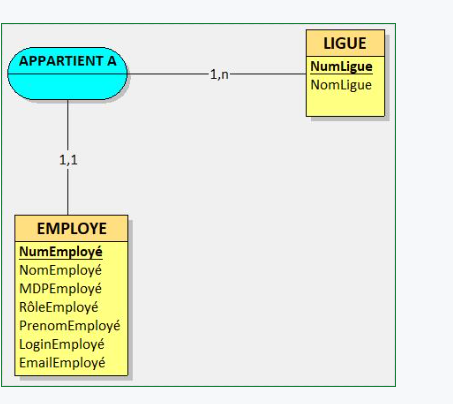
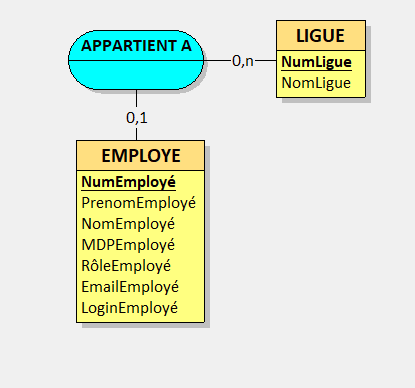
nouveau mcd app

diff --git a/Personnel/src/personnel/Employe.java b/Personnel/src/personnel/Employe.java
@@ -1,6 +1,7 @@
 package personnel;
 
 import java.io.Serializable;
+import java.time.LocalDate;
 
 /**
  * Employé d'une ligue hébergée par la M2L. Certains peuvent 
@@ -16,7 +17,11 @@ public class Employe implements Serializable, Comparable<Employe>
 	private String nom, prenom, password, mail;
 	private Ligue ligue;
 	private GestionPersonnel gestionPersonnel;
-	
+	//Joy a rajouter les dates
+	private LocalDate dateArrivee;
+	private LocalDate dateDepart;
+
+	//Joy a modifier le construteur
 	Employe(GestionPersonnel gestionPersonnel, Ligue ligue, String nom, String prenom, String mail, String password)
 	{
 		this.gestionPersonnel = gestionPersonnel;
@@ -25,6 +30,7 @@ public class Employe implements Serializable, Comparable<Employe>
 		this.password = password;
 		this.mail = mail;
 		this.ligue = ligue;
+		setDateArrivee(dateArrivee)
 	}
 	
 	/**
